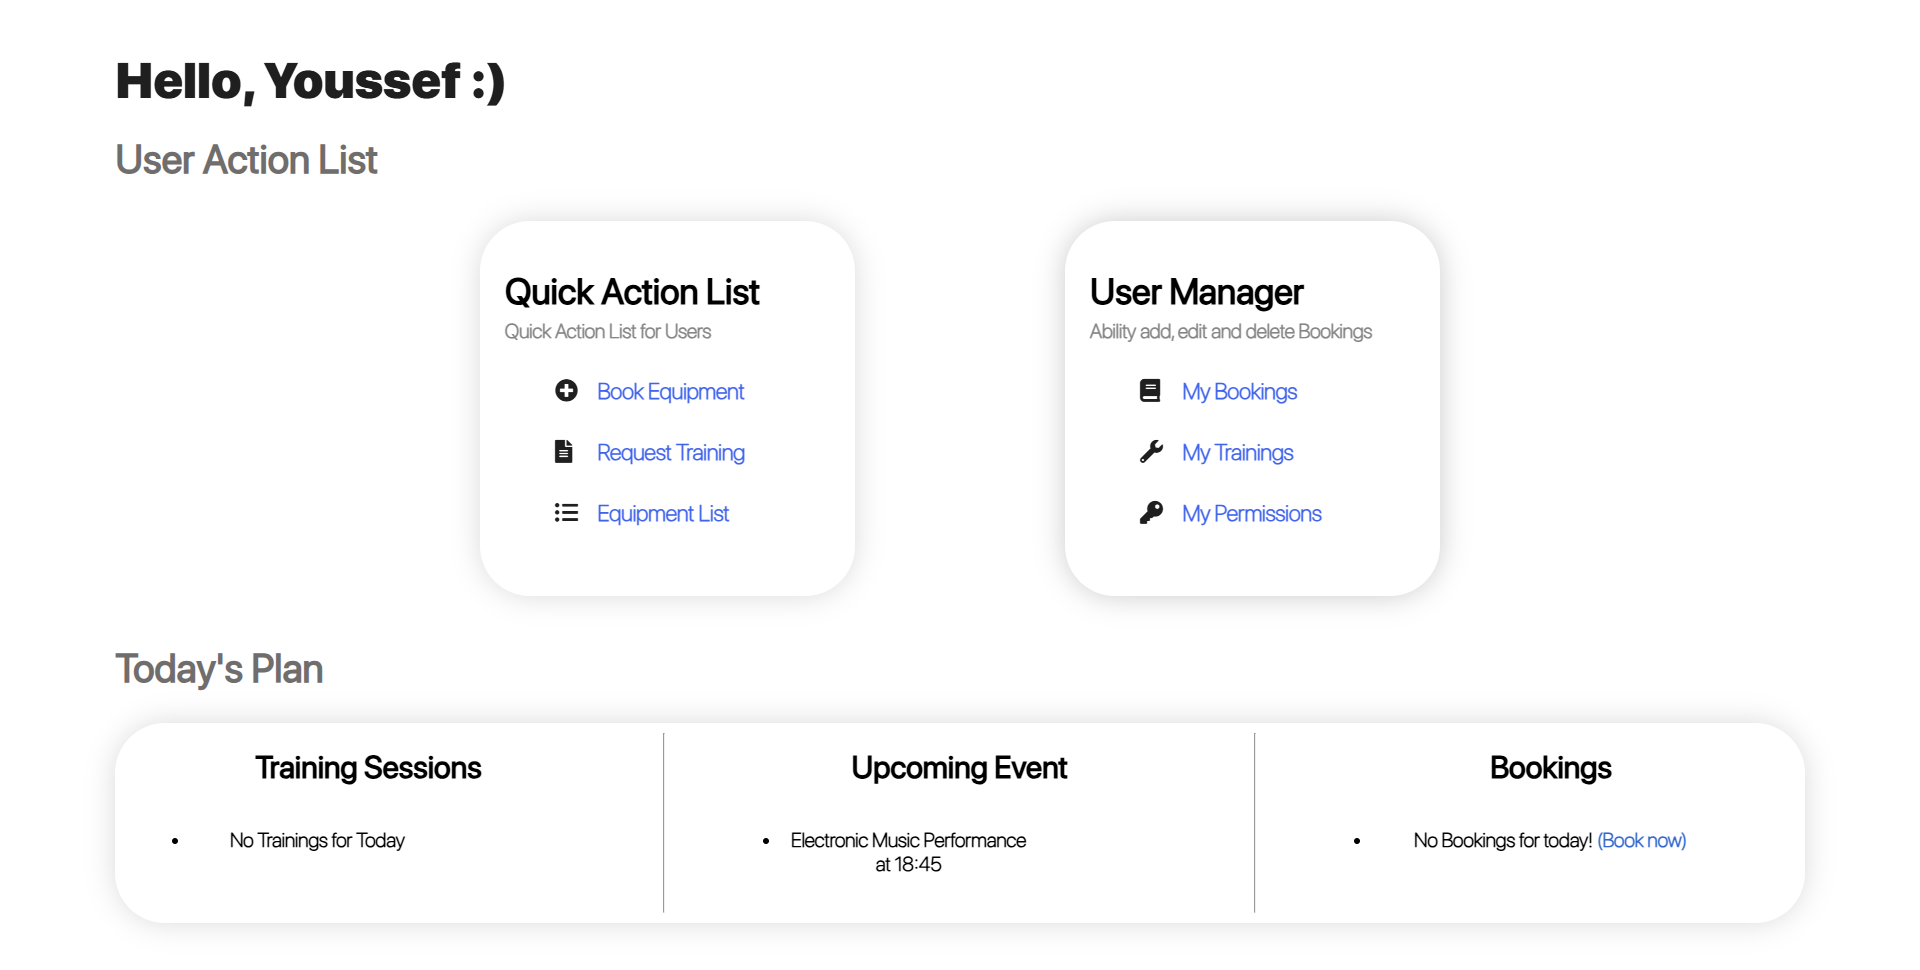
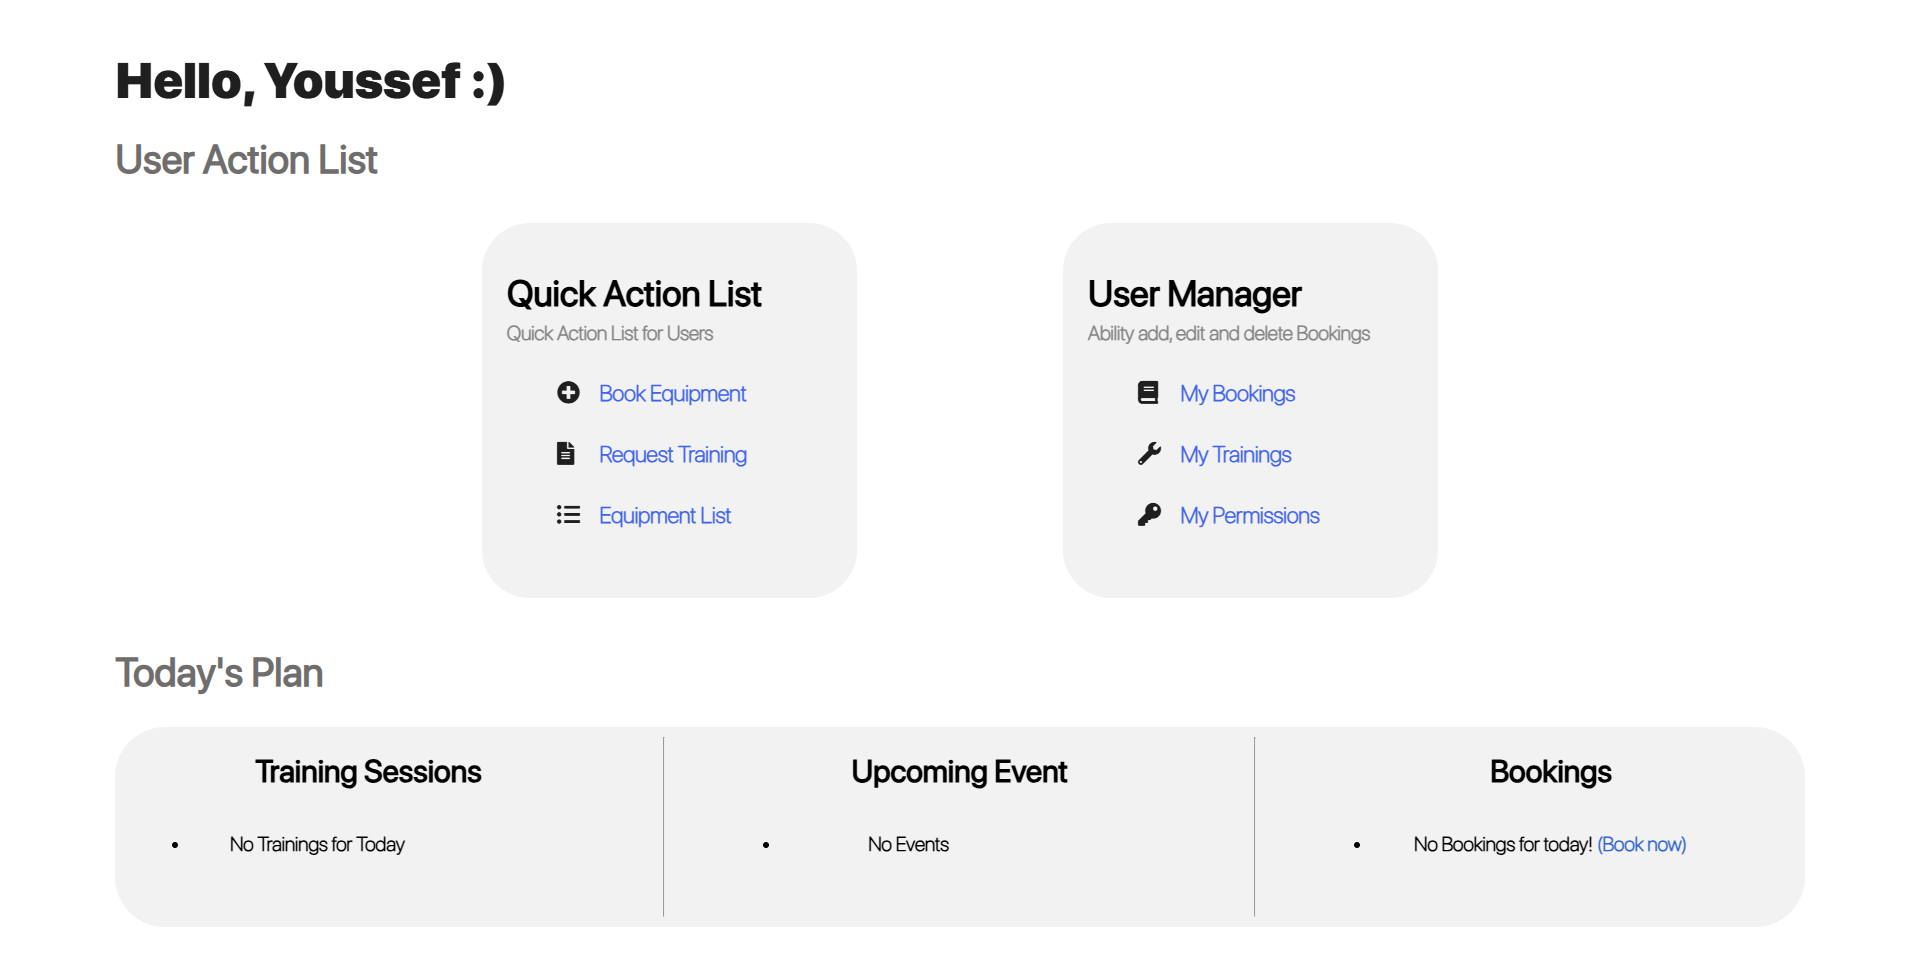
new

diff --git a/index.html b/index.html
@@ -37,15 +37,12 @@
         </p>
       </div>
 
-<button class="try-beta">Try Demo Now!</button>
+<a class="try-beta" href="demo.html">Try Demo Now!</a>
 
 <div class="video-container"> 
 <div class="video">
 
-<video id="demo-video" loop autoplay>
-  <source src="https://youssefbenarab.github.io/LabFlow/resources/edited.mp4"  type="video/mp4">
-
-</video>
+<video src="resources/edited.mp4" id="demo-video"  loop autoplay muted></video>
 </div>
 <div id="extra-content" class="hidden">
   <p>Additional information appears here when you scroll!</p>
@@ -161,6 +158,14 @@
  <div class="swiper mySwiper">
   <div class="swiper-wrapper">
 
+
+    <div class="swiper-slide">
+      <div class="card">
+      <img src="images/ss/0.png" alt=""> 
+      <p>Home Page</p>
+      </div>
+    </div>
+
     <div class="swiper-slide">
       <div class="card">
       <img src="images/ss/1.png" alt=""> 
@@ -211,6 +216,11 @@
 
 </div>
 
+
+
+
+
+
 <div class="faq">
 <h2>FAQ</h2>
 
@@ -218,8 +228,16 @@
 
   <ul>
 
-<li><div class="q"><h5>How do I book equipment?</h5>
-  <div class="answer collapse"><p>You can browse available equipment, select a time slot, and confirm your booking through the platform. You’ll receive a confirmation notification once it's booked.</p></div>
+<li><div class="q"><h5>What is the Lab Equipment Booking Platform?</h5>
+  <div class="answer collapse"><p>The platform allows students and researchers to reserve lab equipment online, ensuring availability and efficient scheduling.</p></div>
+</div>
+</li>
+
+
+<li><div class="q"><h5>How do I access the platform?</h5>
+  <div class="answer collapse"><p>You can log in using your university credentials or the authentication system provided by the institution. For testing purposes, you can try the <a href="demo.html">demo</a> now!
+
+  </p></div>
 </div>
 </li>
 
@@ -231,10 +249,6 @@
 
 
 
-<li><div class="q"><h5>How do I book equipment?</h5>
-  <div class="answer collapse"><p>You can browse available equipment, select a time slot, and confirm your booking through the platform. You’ll receive a confirmation notification once it's booked.</p></div>
-</div>
-</li>
 
 <li><div class="q"><h5>Can I cancel or modify my booking?</h5>
   <div class="answer collapse"><p>Yes, you can cancel or change your reservation before the booking start time. Some bookings may have restrictions, so review the cancellation policy before making changes.</p></div>
@@ -242,14 +256,26 @@
 </li>
 
 
-<li><div class="q"><h5>How do I access LabFlow?</h5>
-  <div class="answer collapse"><p>LabFlow is not commercialized yet, to express interest, please contact our developer team.</p></div>
+<li><div class="q"><h5>How do I report a bug or suggest improvements?</h5>
+  <div class="answer collapse"><p>Use the feedback option on the platform or email the support team with details of the issue or suggestion.</p></div>
 </div>
 </li>
 
 
 
   </ul>
+
+</div>
+
+
+
+<div class="used">
+  <h2>Trusted by</h2>
+
+<div class="list-logos"> 
+<img src="images/nyuad_logo.png" alt="">
+
+</div>
 
 </div>
 

diff --git a/style/style.css b/style/style.css
@@ -79,7 +79,7 @@ transition: 0.3s;
 
 
 .container{
-    background-image: url("../resources/background.png");
+    /* background-image: url("../resources/background.png"); */
     height: 100vh;
     width: 100%;
     background-position: -600px -500px;
@@ -121,6 +121,10 @@ transition: 0.3s;
 
 
 .try-beta{
+    text-decoration: none;
+    display: flex;
+    justify-content: center;
+    align-items: center;
     width: 150px;
     min-height: 40px;
     height: 40px;
@@ -132,6 +136,8 @@ transition: 0.3s;
     margin-top: 30px;
     font-family: regular;
     cursor: pointer;
+    font-weight: 0;
+    font-size: 14px;
     transition: 0.3s;
 
 }
@@ -198,8 +204,10 @@ hr{
 
 .card img{
 width: 680px; 
+height: 350px;
+object-fit: cover;
 border-radius: 25px;
-
+border: solid 1px black;
 }
 
 
@@ -232,12 +240,12 @@ border-radius: 25px;
 
 .row{
 font-family: regular;
-background-color: rgba(255, 255, 255, 0.55);
+background-color: rgba(0, 0, 0, 0.05);
 backdrop-filter: blur(5px);    width: 40%;
     border-radius: 35px;
-    -webkit-box-shadow: 0px 0px 29px 0px rgba(0,0,0,0.1);
+    /* -webkit-box-shadow: 0px 0px 29px 0px rgba(0,0,0,0.1);
     -moz-box-shadow: 0px 0px 29px 0px rgba(0,0,0,0.1);
-    box-shadow: 0px 0px 29px 0px rgba(0,0,0,0.1);
+    box-shadow: 0px 0px 29px 0px rgba(0,0,0,0.1); */
 }
 
 
@@ -291,11 +299,11 @@ transition: 0.3s;
 
 .q{
     cursor: pointer;
-    background-color: rgba(255, 255, 255, 0.35);
+    background-color: rgba(0, 0, 0, 0.05);
     backdrop-filter: blur(5px);
-    -webkit-box-shadow: 0px 0px 29px 0px rgba(0,0,0,0.1);
+    /* -webkit-box-shadow: 0px 0px 29px 0px rgba(0,0,0,0.1);
     -moz-box-shadow: 0px 0px 29px 0px rgba(0,0,0,0.1);
-    box-shadow: 0px 0px 29px 0px rgba(0,0,0,0.1);
+    box-shadow: 0px 0px 29px 0px rgba(0,0,0,0.1); */
     border-radius: 25px;
     padding: 10px;
     padding-left: 15px;
@@ -438,6 +446,19 @@ width: 50%;
 
 .trustedby img{
     width: 200px;
+}
+
+
+.used{
+    width: 100%;
+    margin-top: 40px;
+    margin-bottom: 0;
+    text-align: center;
+}
+
+.used img{
+    width: 400px;
+    filter: grayscale();
 }
 
 @keyframes zoomEffect {

diff --git a/style/demo.css b/style/demo.css
@@ -1,0 +1,33 @@
+
+@font-face {
+    font-family: regular;
+    src: url(../fonts/SF-Pro-Display-Regular.ttf);
+}
+
+@font-face {
+    font-family: boldfont;
+    src: url(../fonts/SF-Pro-Display-Black.ttf);
+}
+
+
+body{
+    text-align: center;
+}
+
+h2{
+    font-family: boldfont;
+    font-size: 30px;
+}
+
+
+.container{
+
+    width: 100%;
+    display: flex;
+    justify-content: center;
+}
+
+.container iframe{
+    border-radius: 30px;
+    border: solid 1px black;
+}

diff --git a/demo.html b/demo.html
@@ -1,0 +1,21 @@
+<!DOCTYPE html>
+<html lang="en">
+<head>
+    <meta charset="UTF-8">
+    <meta name="viewport" content="width=device-width, initial-scale=1.0">
+    <title>LabFlow Demo</title>
+<link rel="stylesheet" href="style/demo.css">
+</head>
+<body>
+    
+<h2>LabFlow Demo</h2>
+
+<div class="container">
+
+<iframe src="https://nyufalcon.online/erblabs/" frameborder="0" height="650px" width="1155px"></iframe>
+
+</div>
+
+
+</body>
+</html>
